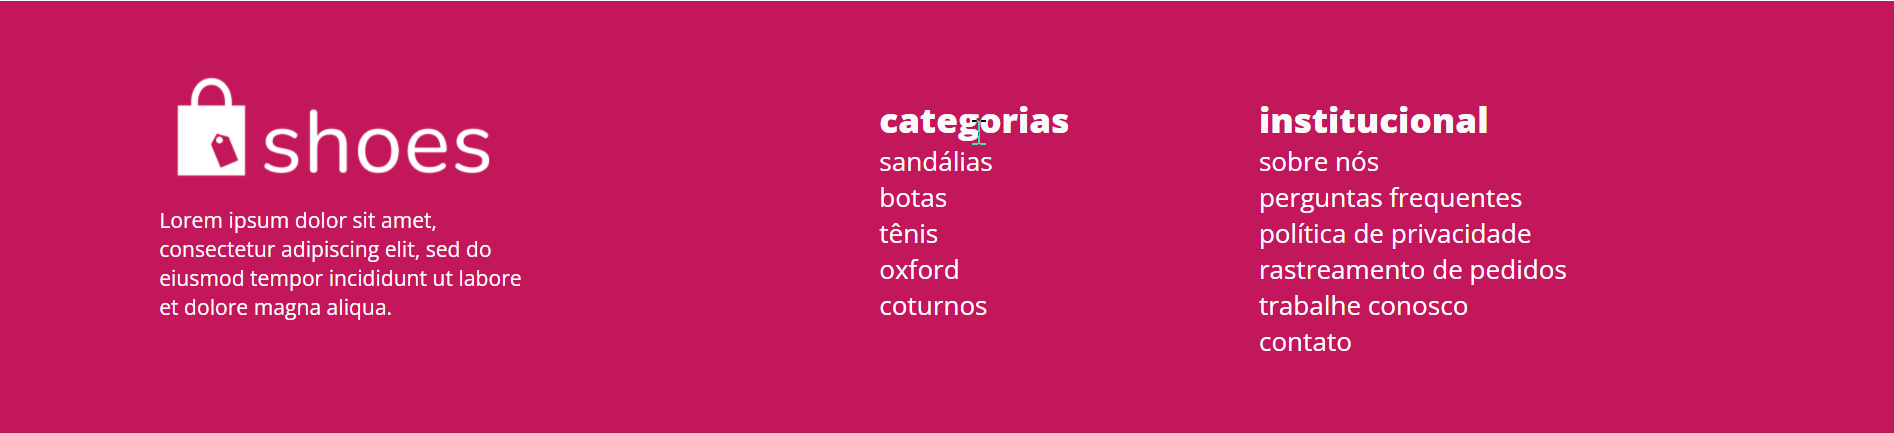
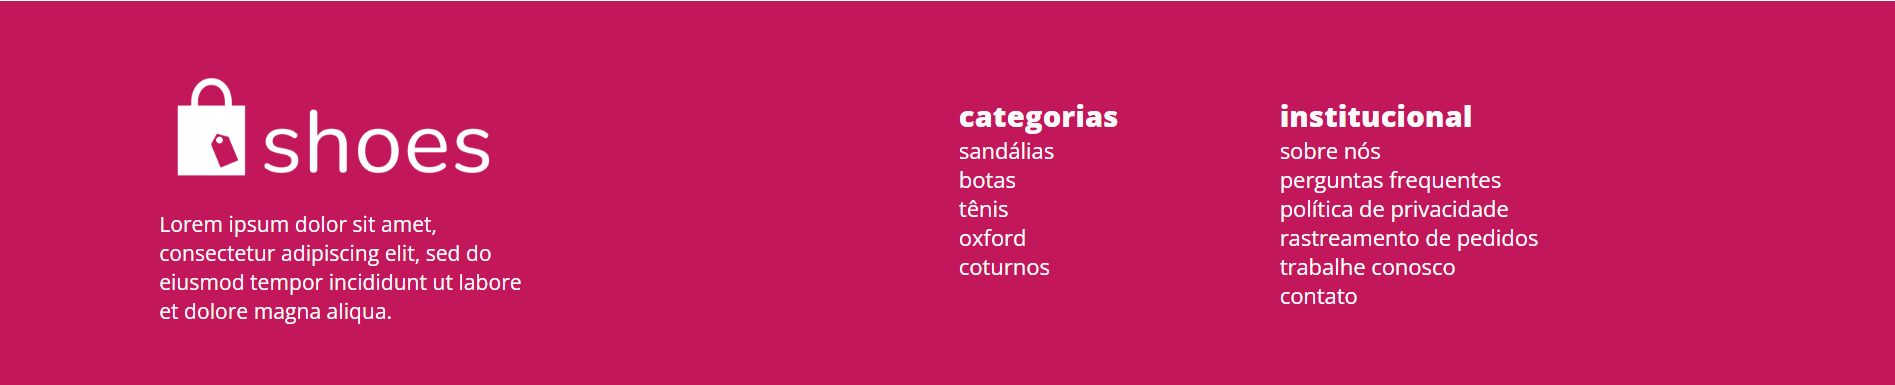
Modificações visuais no header no caixaMain4 e no footer

diff --git a/shoesHOME.css b/shoesHOME.css
@@ -22,8 +22,7 @@
 .textosHeader {
     display: flex;
     justify-content: space-between;
-    font-size: 170%;
-    margin-right: 3%;
+    font-size: 140%;
     margin-top: 3%;
     width: 45%;
     font-weight: 600;
@@ -33,6 +32,7 @@
 .texto1Header {
   color: var(--color3);
   cursor: pointer;
+  margin-left: 1%
 }
 
 .texto2Header {
@@ -43,6 +43,7 @@
 .texto3Header {
     color: var(--color3);
     cursor: pointer;
+    margin-right: 6%;
 }
 
 .image0 img{
@@ -189,18 +190,20 @@
     margin-left: 12%;
 }
 
-
+.textos1caixa4 {
+    width: 89.7%;
+}
 
 .texto1caixa4 {
     font-size: 230%;
     font-weight: 600;
-    width: 90%;
+    width: 100%;
 }
 
 .texto2caixa4 {
     background-color: var(--color2);
     color: var(--color1);
-    width: 71.5%;
+    width: 79.5%;
     margin-top: 1.5%;
     margin-bottom: 8%;
     cursor: pointer;
@@ -211,12 +214,16 @@
 }
 
 .texto2caixa4 p {
-    margin-top: 3%;
-    font-size: 175%;
+    margin-top: 5%;
+    font-size: 155%;
+}
+
+.image1caixa4  {
+    width: 90%;
 }
 
 .image1caixa4 img {
-    width: 90%;
+    width: 100%;
 }
 
 .filha2caixa4 {
@@ -226,6 +233,9 @@
 
 .filha2caixa4 img {
     width: 97.5%;
+    height: 98.7%;
+    position: relative;
+    margin-left: -7.5%;
 }
 
 footer {
@@ -250,10 +260,10 @@ footer {
 }
 
 .boxFooter2 {
-    margin-left: 18%;
+    margin-left: 22.2%;
     margin-top: 5%;
     color: var(--color1);
-    font-size: 125%;
+    font-size: 105%;
 }
 
 .categorias {
@@ -286,10 +296,10 @@ footer {
 }
 
 .boxFooter3 {
-    margin-left: 10%;
+    margin-left: 8.5%;
     margin-top: 5%;
     color: var(--color1);
-    font-size: 125%;
+    font-size: 105%;
     margin-bottom: 4%;
     width: 16.5%;
 }
